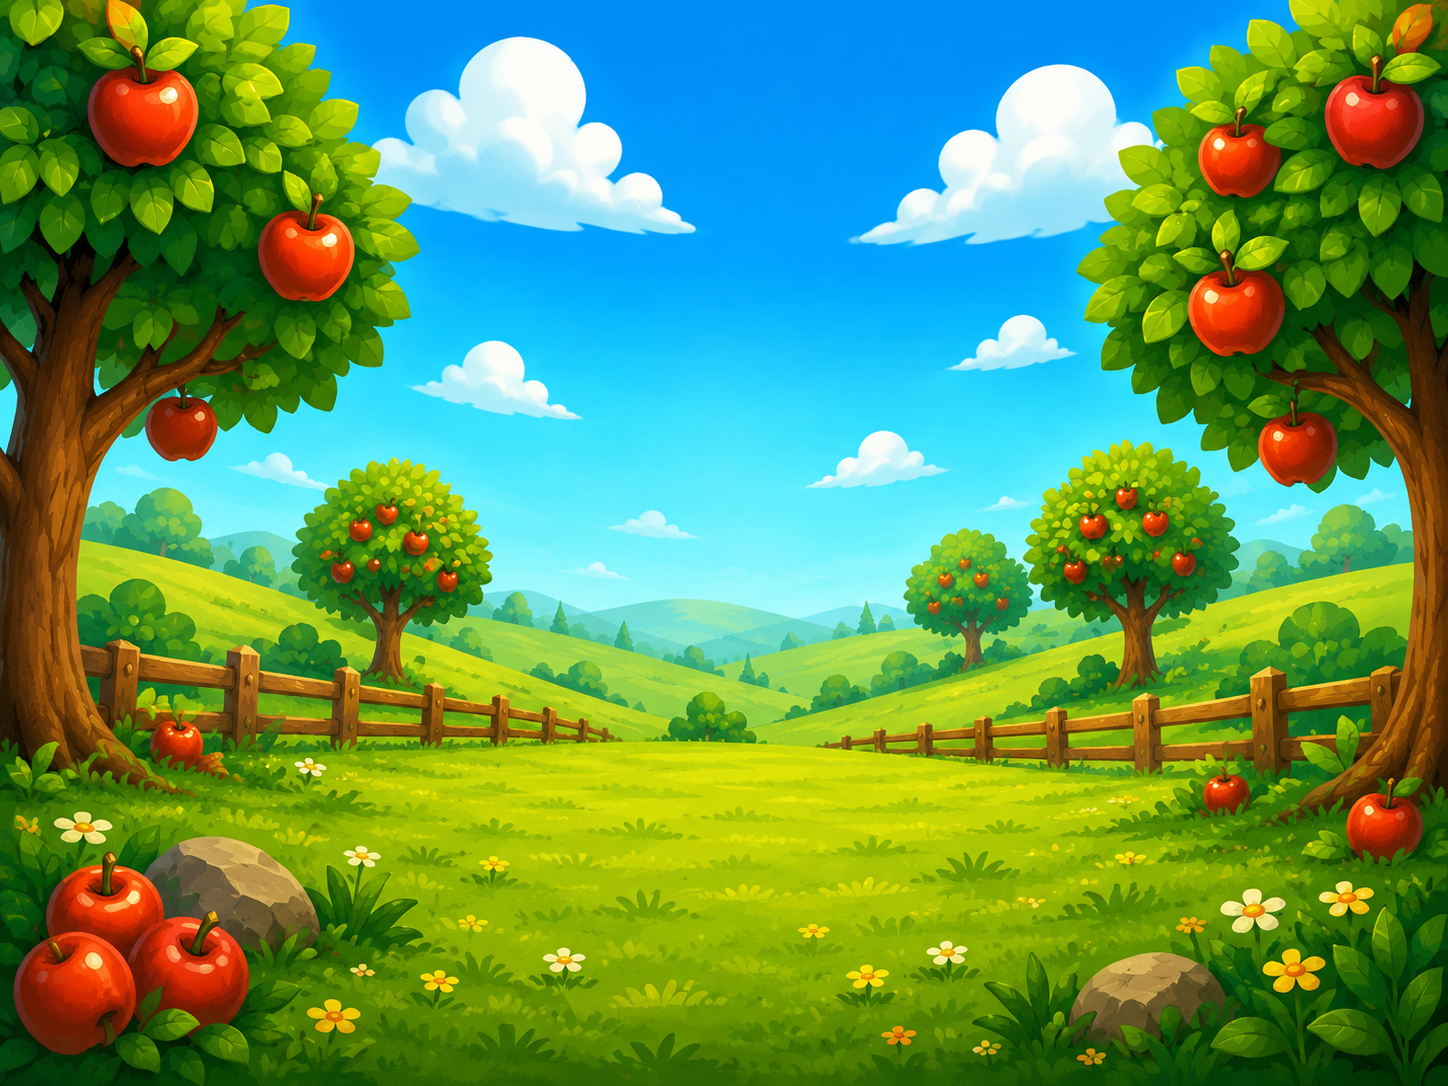
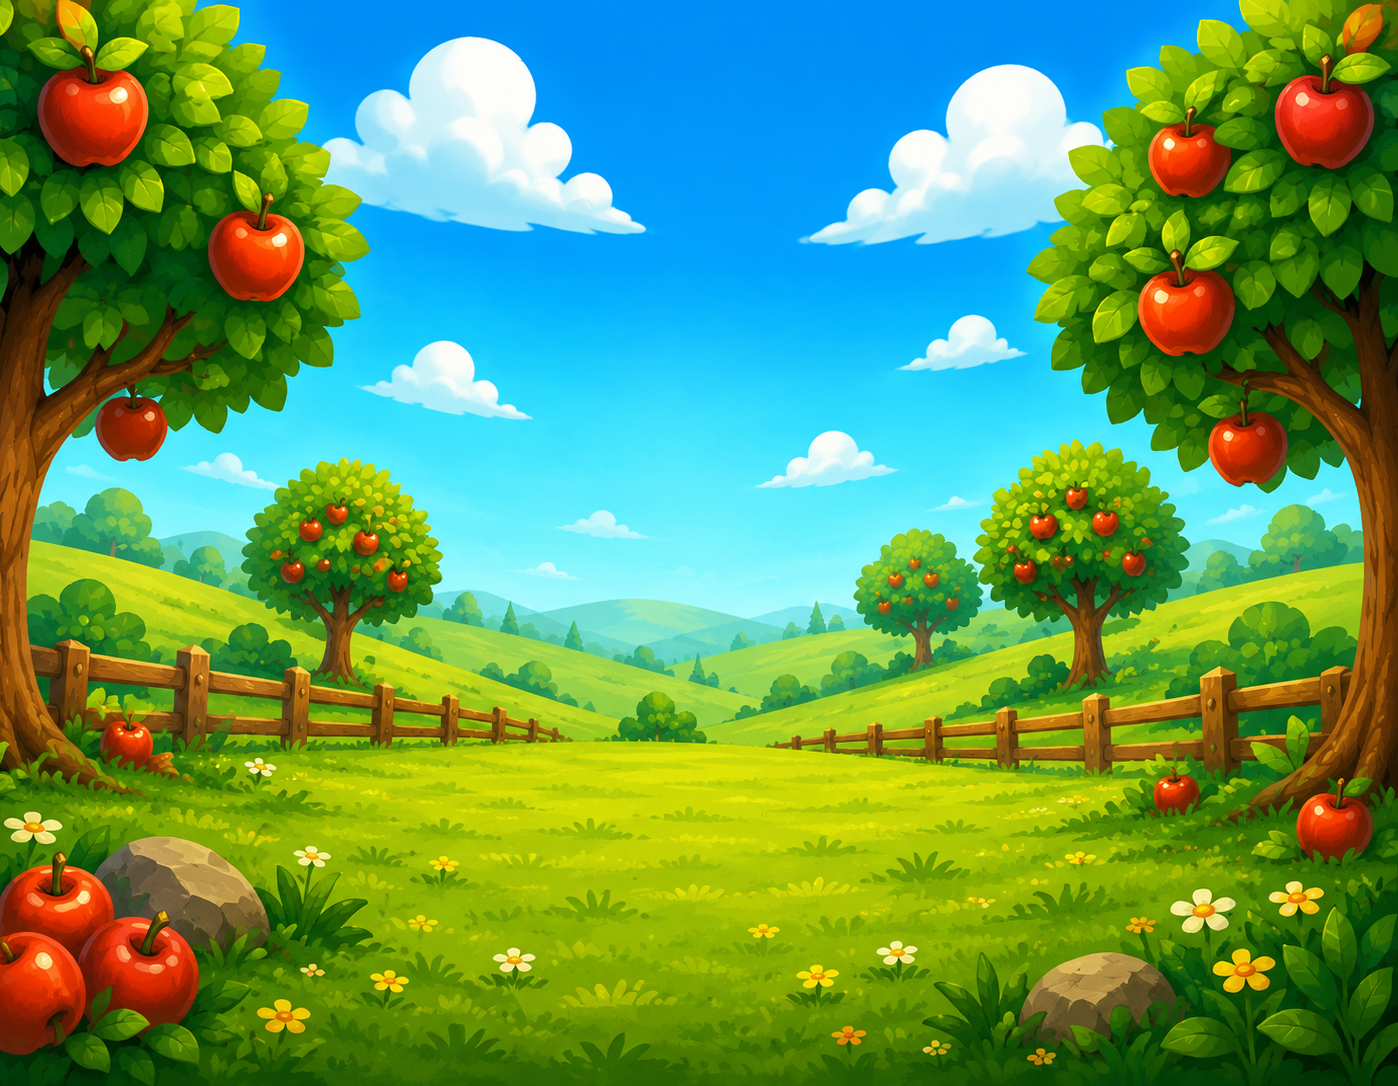
new backrgound

diff --git a/TitlePage.java b/TitlePage.java
@@ -72,7 +72,7 @@ public class TitlePage extends World
     private void prepare()
     {
         // Game Title
-        addObject(new Logo(), 500, 300);
+        addObject(new Logo(), 500, 275);
 
         // How To Play Headers & Instructions
         Label howToPlayHeader = new Label("How to Play:", 24);
